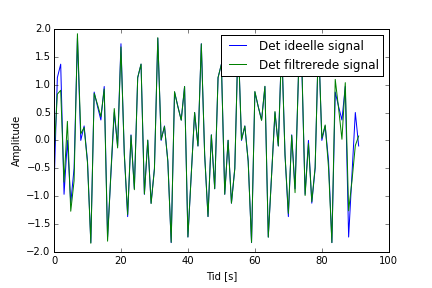
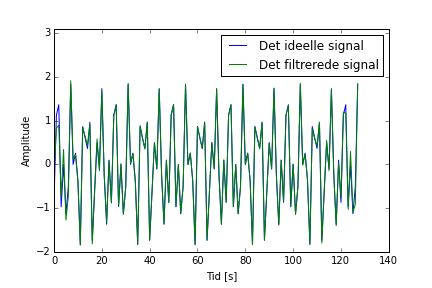
Miniprojekt

diff --git a/Diskret-tids-systemer/Miniprojekt/Rapport/sections/mainmatter/app1.tex b/Diskret-tids-systemer/Miniprojekt/Rapport/sections/mainmatter/app1.tex
@@ -41,7 +41,7 @@ h_d[0]=& \frac{1}{\pi} \left( \cos\left( \omega_{c_1} \left(n-\frac{M}{2}\right)
 \section{Amplituderespons for filteret} \label{app2}
 \begin{figure}[H]
 \centering
-\includegraphics[width=0.7\textwidth]{figures/Filter/Filter_Hamming_92.png}
-\caption{Amplituderespons for filteret af orden $M=92$ ved Hamming-vinduet.}
+\includegraphics[width=0.7\textwidth]{figures/Filter/Filter_Hamming_126.png}
+\caption{Amplituderespons for filteret af orden $M=126$ ved anvendelse af Hamming-vinduet.}
 \label{fig:amplituderespons}
 \end{figure}
